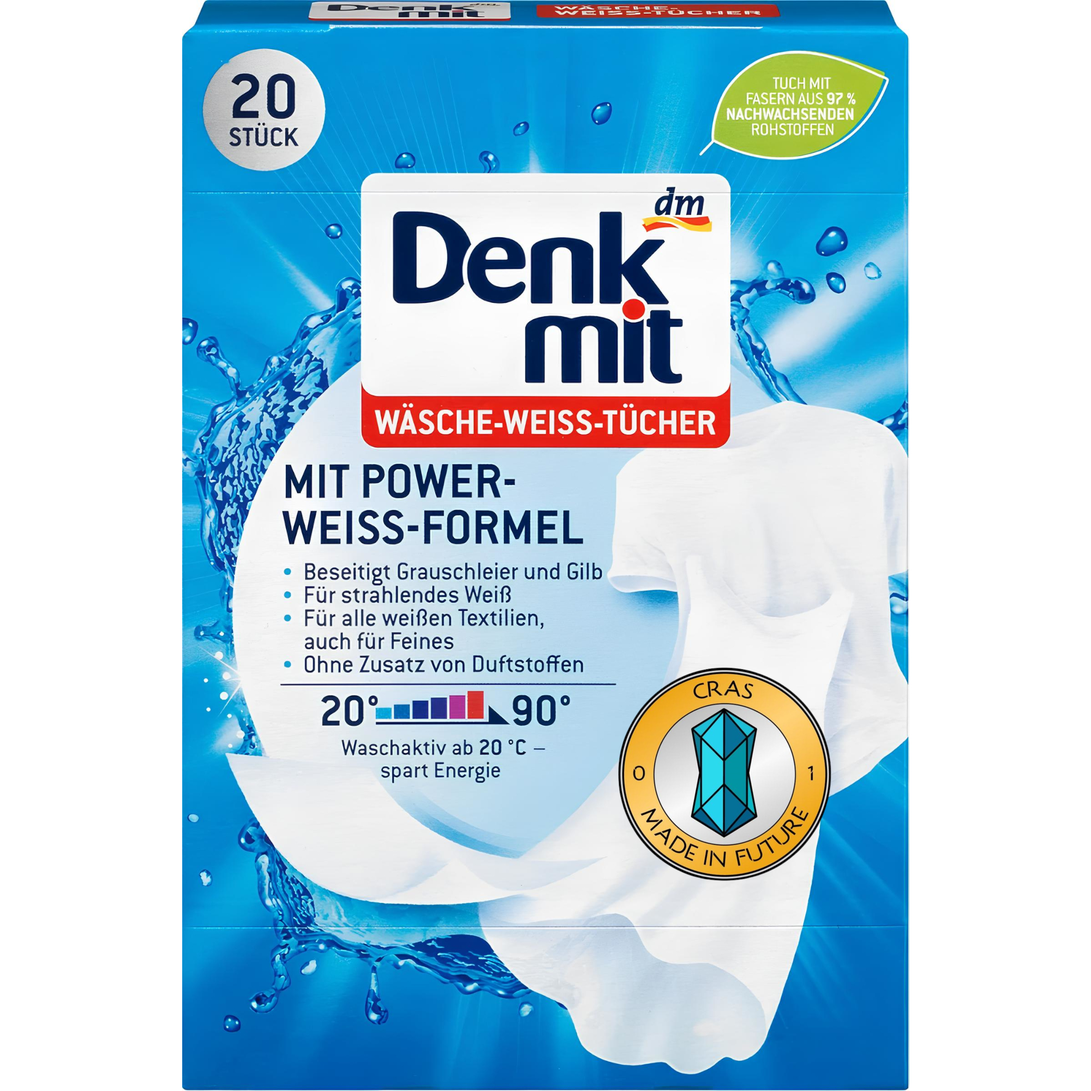
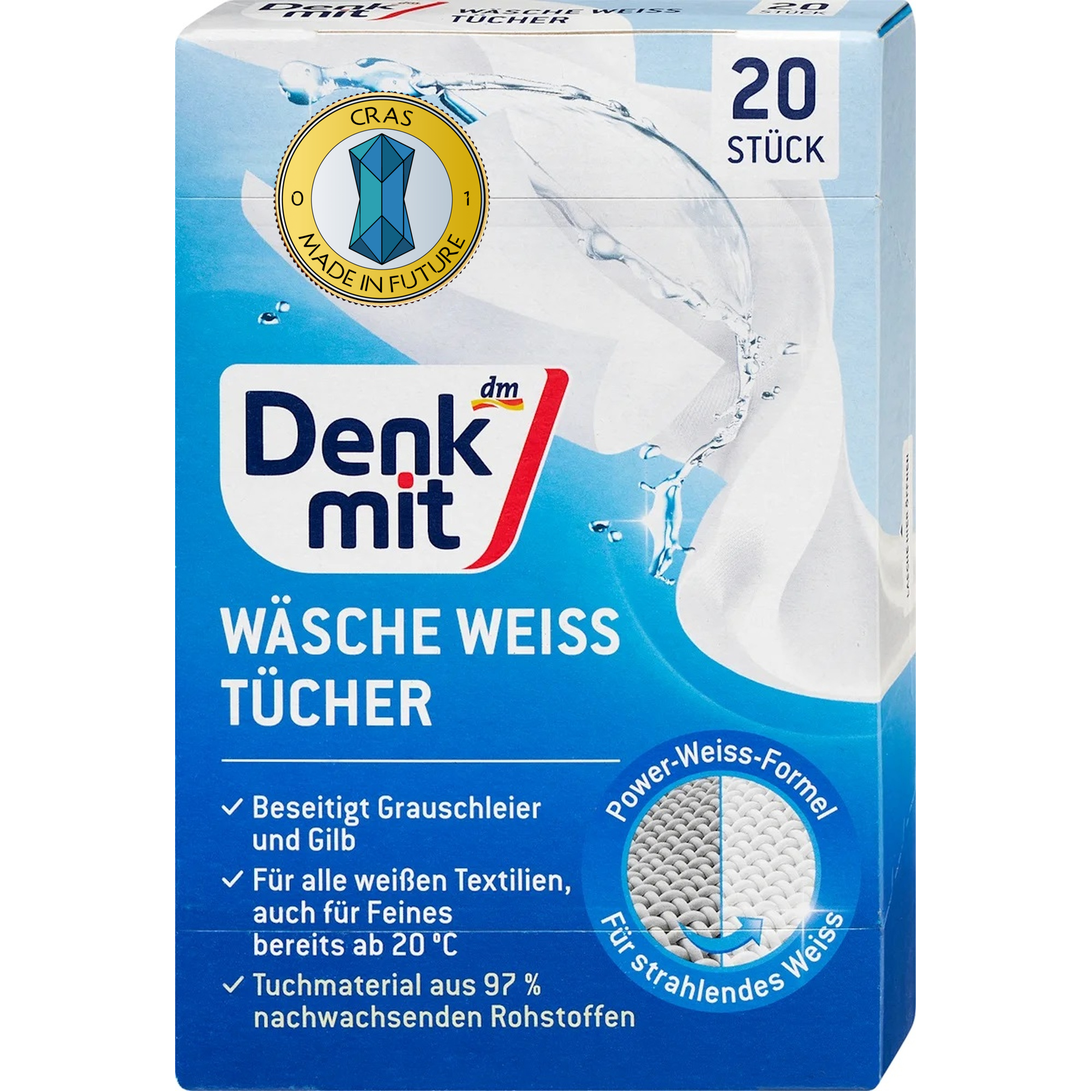
New Image Denkmit weiss

diff --git a/js/household_chemicals/array-laundry-sheets.js b/js/household_chemicals/array-laundry-sheets.js
@@ -92,6 +92,10 @@ export const shopLotsLaundrySheets = [
         alt1: "denkmit_wasche_weiss_tucher_20-01",
         url2: "./images/shop/household_chemicals/laundry_detergents/laundry_sheets/denkmit_wasche_weiss_tucher_20-02.jpg",
         alt2: "denkmit_wasche_weiss_tucher_20-02",
+        url3: "./images/shop/household_chemicals/laundry_detergents/laundry_sheets/denkmit_wasche_weiss_tucher_20-03.jpg",
+        alt3: "denkmit_wasche_weiss_tucher_20-03",
+        url4: "./images/shop/household_chemicals/laundry_detergents/laundry_sheets/denkmit_wasche_weiss_tucher_20-04.jpg",
+        alt4: "denkmit_wasche_weiss_tucher_20-04",
         marker: "LRSH155",
         brand: "Denkmit",
         search: "wasche-weiss-tucher денкмит денктміт серветки для прання стиральные салфетки для стирки білий білого белый белого белых вещей відбілювач з відбілювачем отбеливатель с отбеливателем отбеливающие",
